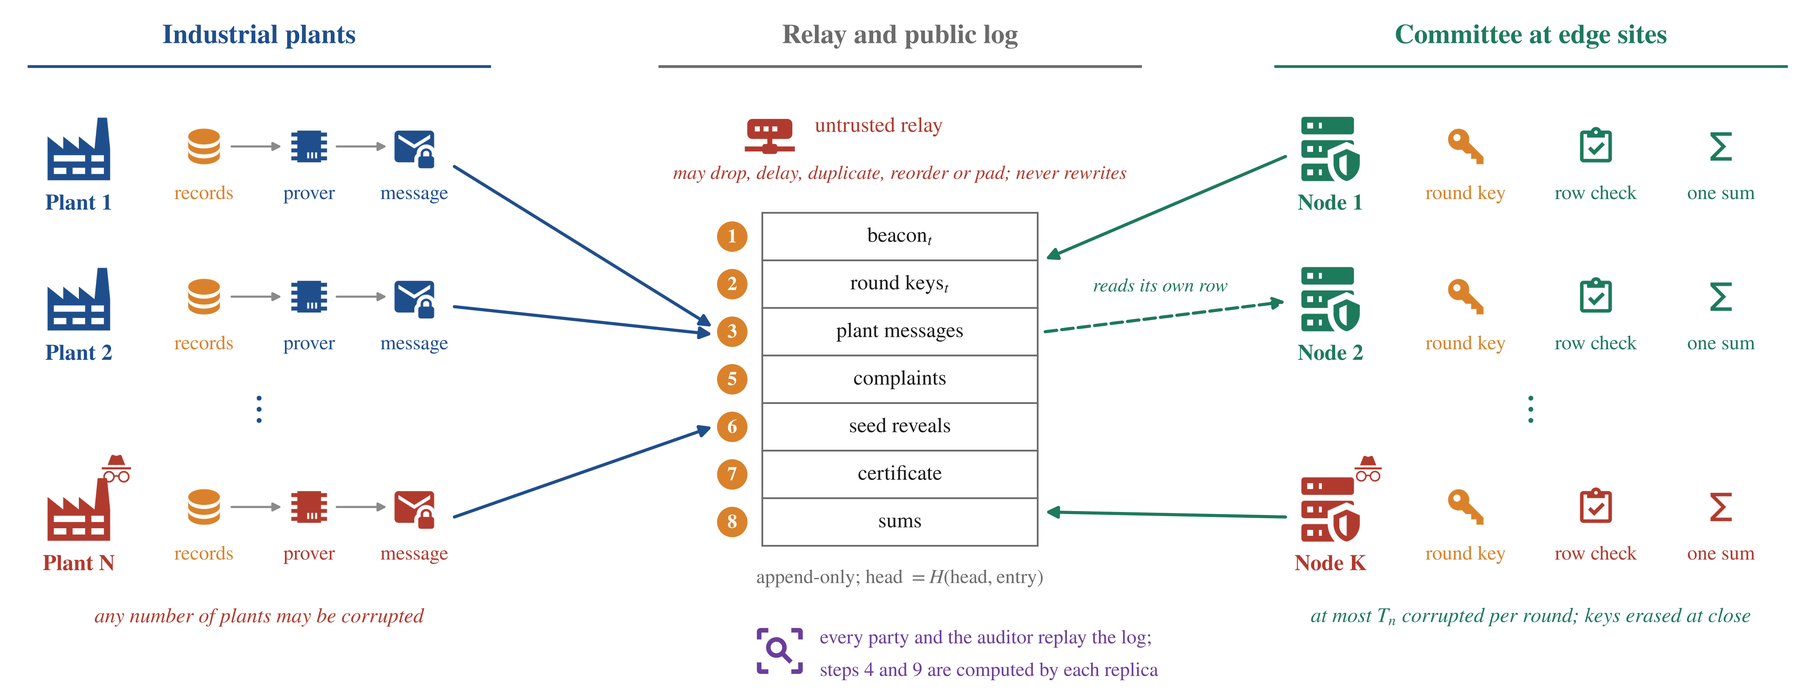
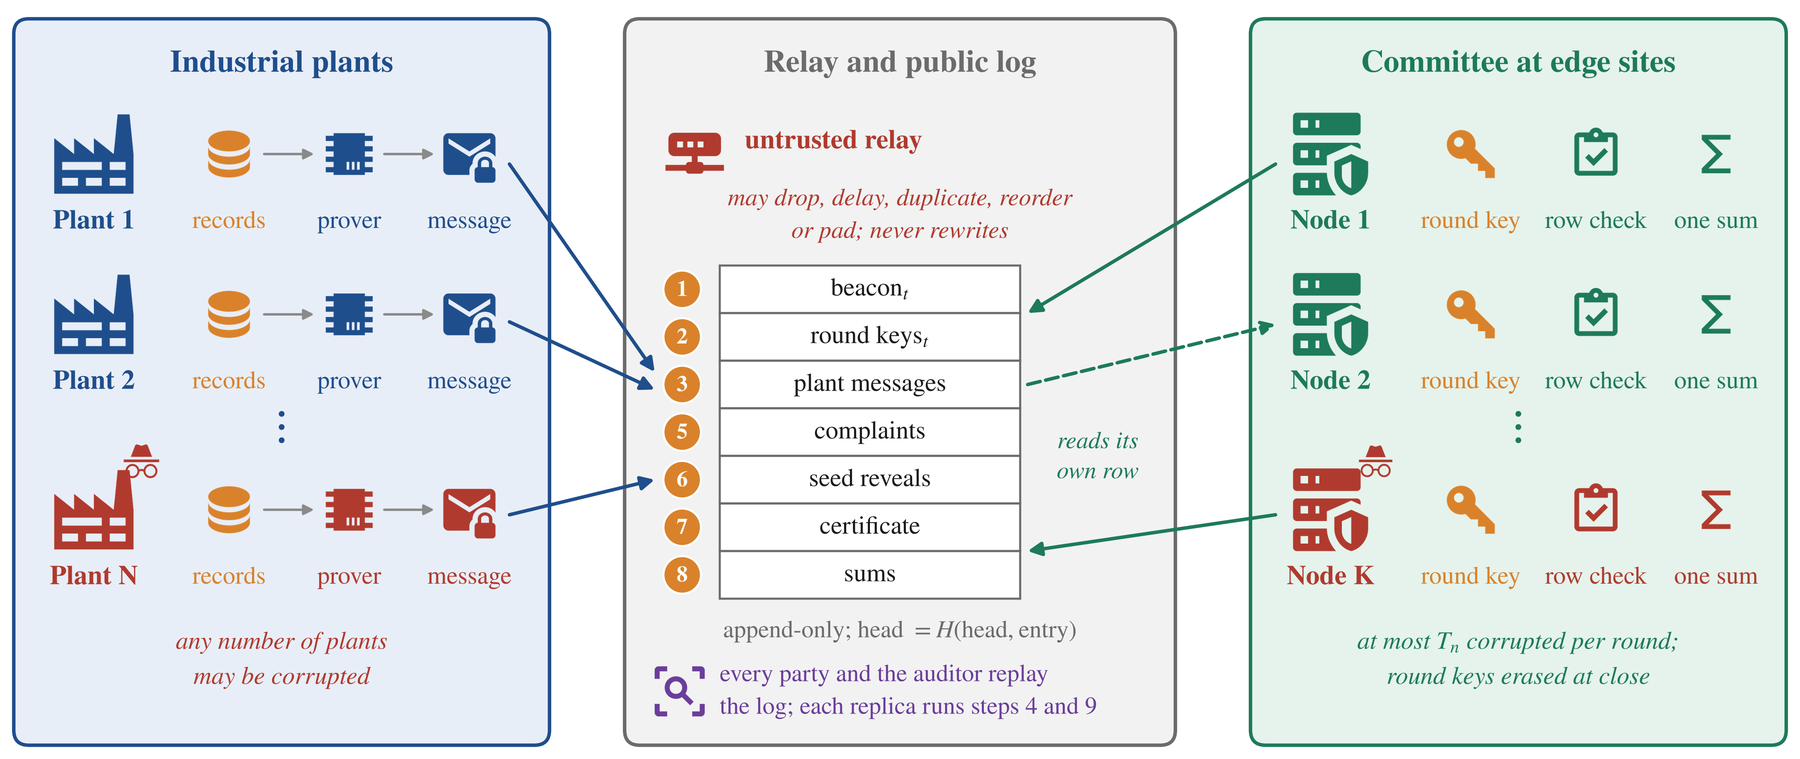
update readme figure

diff --git a/figures/fig2_system.py b/figures/fig2_system.py
@@ -1,88 +1,94 @@
-"""Fig. 2: parties, the public log and the steps of a round, drawn as one open layout."""
+"""Fig. 2: parties, the public log and the steps of a round, in three outlined sections."""
 import sys
 from figkit import Canvas, C
 
-W, H = 7.16, 3.05
+W, H = 7.16, 3.00
 cv = Canvas(W, H)
+BY0, BY1 = 0.04, 2.94                                            # bottom and top of the three section boxes
+HEAD = 2.76                                                      # heading line, inside each box
+SECT = [(0.04, 2.14, 'Industrial plants', C['plant'], C['plant_bg']),
+        (2.48, 2.20, 'Relay and public log', C['log'], C['log_bg']),
+        (4.98, 2.14, 'Committee at edge sites', C['node'], C['node_bg'])]
+for x0, w, title, col, bg in SECT:
+    cv.box(x0, BY0, w, BY1 - BY0, fc=bg, ec=col, lw=1.0, r=0.06, z=1)
+    cv.text(x0 + w / 2, HEAD, title, size=9.0, weight='bold', color=col)
 
-# ------------------------------------------------------------------ column headings
-cv.text(1.02, 2.92, 'Industrial plants', size=7.8, weight='bold', color=C['plant'])
-cv.text(3.58, 2.92, 'Relay and public log', size=7.8, weight='bold', color=C['log'])
-cv.text(6.10, 2.92, 'Committee at edge sites', size=7.8, weight='bold', color=C['node'])
-for x0, x1, col in ((0.10, 1.94, C['plant']), (2.62, 4.54, C['log']), (5.08, 7.12, C['node'])):
-    cv.ax.plot([x0, x1], [2.80, 2.80], color=col, lw=0.8, zorder=1)
+ROWS = (2.34, 1.70, 0.92)                                        # first, second and last party in a section
+DOTS = 1.31
+LAB = 0.21                                                       # label offset below an icon row
 
 
 # ------------------------------------------------------------------ plants
 def plant(y, name, bad=False):
     col = C['bad'] if bad else C['plant']
-    cv.icon('factory', 0.30, y + 0.05, 0.30, col)
-    cv.text(0.30, y - 0.17, name, size=6.4, color=col, weight='bold')
+    cv.icon('factory', 0.36, y + 0.06, 0.38, col)
+    cv.text(0.36, y - LAB, name, size=7.8, color=col, weight='bold')
     if bad:
-        cv.icon('incognito', 0.45, y + 0.21, 0.14, C['bad'], z=7)
-    for x, ic, lab, c in ((0.80, 'database', 'records', C['secret']), (1.22, 'chip', 'prover', col),
-                          (1.64, 'email-lock', 'message', col)):
-        cv.icon(ic, x, y + 0.06, 0.19, c)
-        cv.text(x, y - 0.13, lab, size=5.8, color=c)
-    cv.arrow(0.91, y + 0.06, 1.11, y + 0.06, color='#8a8a8a', lw=0.6, ms=5)
-    cv.arrow(1.33, y + 0.06, 1.53, y + 0.06, color='#8a8a8a', lw=0.6, ms=5)
+        cv.icon('incognito', 0.55, y + 0.25, 0.17, C['bad'], z=7)
+    for x, ic, lab, c in ((0.90, 'database', 'records', C['secret']), (1.38, 'chip', 'prover', col),
+                          (1.86, 'email-lock', 'message', col)):
+        cv.icon(ic, x, y + 0.06, 0.25, c)
+        cv.text(x, y - LAB, lab, size=7.2, color=c)
+    cv.arrow(1.04, y + 0.06, 1.24, y + 0.06, color='#8a8a8a', lw=0.7, ms=6)
+    cv.arrow(1.52, y + 0.06, 1.72, y + 0.06, color='#8a8a8a', lw=0.7, ms=6)
 
 
-plant(2.42, 'Plant 1')
-plant(1.82, 'Plant 2')
-cv.text(1.02, 1.43, '⋮', size=11, color=C['plant'])
-plant(0.98, 'Plant N', bad=True)
-cv.text(1.02, 0.60, 'any number of plants may be corrupted', size=6.0, color=C['bad'], style='italic')
+plant(ROWS[0], 'Plant 1')
+plant(ROWS[1], 'Plant 2')
+cv.text(1.11, DOTS, '⋮', size=13, color=C['plant'])
+plant(ROWS[2], 'Plant N', bad=True)
+cv.text(1.11, 0.45, 'any number of plants', size=7.2, color=C['bad'], style='italic')
+cv.text(1.11, 0.31, 'may be corrupted', size=7.2, color=C['bad'], style='italic')
 
 # ------------------------------------------------------------------ relay and the log
-cv.icon('router-network', 3.06, 2.56, 0.24, C['relay'])
-cv.text(3.24, 2.56, 'untrusted relay', size=6.2, ha='left', color=C['relay'])
-cv.text(3.58, 2.37, 'may drop, delay, duplicate, reorder or pad; never rewrites', size=5.6, color=C['relay'],
-        style='italic')
+cv.icon('router-network', 2.76, 2.45, 0.28, C['relay'])
+cv.text(2.96, 2.45, 'untrusted relay', size=7.8, ha='left', color=C['relay'], weight='bold')
+cv.text(3.58, 2.22, 'may drop, delay, duplicate, reorder', size=7.0, color=C['relay'], style='italic')
+cv.text(3.58, 2.09, 'or pad; never rewrites', size=7.0, color=C['relay'], style='italic')
 entries = [('1', 'beacon$_t$'), ('2', 'round keys$_t$'), ('3', 'plant messages'), ('5', 'complaints'),
            ('6', 'seed reveals'), ('7', 'certificate'), ('8', 'sums')]
-EX, EW, EH = 3.03, 1.10, 0.19
-y0 = 2.12
-for k, (b, lab) in enumerate(entries):
-    y = y0 - k * EH
-    cv.box(EX, y - EH / 2, EW, EH, fc='white', ec=C['log'], lw=0.5, r=0.0, z=4)
-    cv.text(EX + EW / 2, y, lab, size=6.1, color=C['ink'], z=6)
-    cv.badge(EX - 0.12, y, b, r=0.065, size=5.6)
-ybot = y0 - (len(entries) - 1) * EH - EH / 2
-cv.text(EX + EW / 2, ybot - 0.13, 'append-only; head $=H(\\mathrm{head},\\mathrm{entry})$', size=5.7, color=C['log'])
-cv.icon('magnify-scan', 3.10, ybot - 0.42, 0.22, C['aud'])
-cv.text(3.26, ybot - 0.37, 'every party and the auditor replay the log;', size=5.7, ha='left', color=C['aud'])
-cv.text(3.26, ybot - 0.50, 'steps 4 and 9 are computed by each replica', size=5.7, ha='left', color=C['aud'])
+EX, EW, EH = 2.86, 1.20, 0.19
+ER = EX + EW
+y0 = 1.86
+ey = [y0 - k * EH for k in range(len(entries))]
+for y, (b, lab) in zip(ey, entries):
+    cv.box(EX, y - EH / 2, EW, EH, fc='white', ec=C['log'], lw=0.6, r=0.0, z=4)
+    cv.text(EX + EW / 2, y, lab, size=7.3, color=C['ink'], z=6)
+    cv.badge(EX - 0.15, y, b, r=0.075, size=6.4)
+ybot = ey[-1] - EH / 2
+cv.text(3.58, ybot - 0.13, 'append-only; head $=H(\\mathrm{head},\\mathrm{entry})$', size=7.0, color=C['log'])
+cv.icon('magnify-scan', 2.70, 0.255, 0.24, C['aud'])
+cv.text(2.86, 0.32, 'every party and the auditor replay', size=7.0, ha='left', color=C['aud'])
+cv.text(2.86, 0.19, 'the log; each replica runs steps 4 and 9', size=7.0, ha='left', color=C['aud'])
 
 
 # ------------------------------------------------------------------ committee
 def node(y, name, bad=False):
     col = C['bad'] if bad else C['node']
-    cv.icon('server-security', 5.30, y + 0.05, 0.28, col)
-    cv.text(5.30, y - 0.17, name, size=6.4, color=col, weight='bold')
+    cv.icon('server-security', 5.30, y + 0.06, 0.36, col)
+    cv.text(5.30, y - LAB, name, size=7.8, color=col, weight='bold')
     if bad:
-        cv.icon('incognito', 5.45, y + 0.21, 0.13, C['bad'], z=7)
-    for x, ic, lab, c in ((5.84, 'key-variant', 'round key', C['secret']), (6.36, 'clipboard-check-outline', 'row check', col),
-                          (6.86, 'sigma', 'one sum', col)):
-        cv.icon(ic, x, y + 0.06, 0.17, c)
-        cv.text(x, y - 0.13, lab, size=5.8, color=c)
+        cv.icon('incognito', 5.48, y + 0.25, 0.16, C['bad'], z=7)
+    for x, ic, lab, c in ((5.86, 'key-variant', 'round key', C['secret']), (6.36, 'clipboard-check-outline', 'row check', col),
+                          (6.84, 'sigma', 'one sum', col)):
+        cv.icon(ic, x, y + 0.06, 0.23, c)
+        cv.text(x, y - LAB, lab, size=7.2, color=c)
 
 
-node(2.42, 'Node 1')
-node(1.82, 'Node 2')
-cv.text(6.10, 1.43, '⋮', size=11, color=C['node'])
-node(0.98, 'Node K', bad=True)
-cv.text(6.10, 0.60, 'at most $T_n$ corrupted per round; keys erased at close', size=6.0, color=C['node'],
-        style='italic')
+node(ROWS[0], 'Node 1')
+node(ROWS[1], 'Node 2')
+cv.text(6.05, DOTS, '⋮', size=13, color=C['node'])
+node(ROWS[2], 'Node K', bad=True)
+cv.text(6.05, 0.45, 'at most $T_n$ corrupted per round;', size=7.2, color=C['node'], style='italic')
+cv.text(6.05, 0.31, 'round keys erased at close', size=7.2, color=C['node'], style='italic')
 
-# ------------------------------------------------------------------ flows
-ER = EX + EW
-cv.arrow(1.80, 2.40, EX - 0.20, 1.76, color=C['plant'], lw=0.9)                       # messages (3)
-cv.arrow(1.80, 1.84, EX - 0.20, 1.73, color=C['plant'], lw=0.9)
-cv.arrow(1.80, 1.00, EX - 0.20, 1.36, color=C['plant'], lw=0.9)                       # seed reveal (6)
-cv.arrow(5.12, 2.44, ER + 0.03, 2.03, color=C['node'], lw=0.9)                        # beacon, keys (1, 2)
-cv.arrow(ER + 0.03, 1.74, 5.12, 1.86, color=C['node'], lw=0.9, ls='--')               # reads own row
-cv.text(4.62, 1.92, 'reads its own row', size=5.5, color=C['node'], style='italic')
-cv.arrow(5.12, 1.00, ER + 0.03, 1.02, color=C['node'], lw=0.9)                        # certificate, sums (7, 8)
-cv.ax.set_ylim(0.30, H); cv.fig.set_size_inches(W, H - 0.30)
+# ------------------------------------------------------------------ flows between the sections
+cv.arrow(2.02, ROWS[0] + 0.02, EX - 0.26, ey[2] + 0.05, color=C['plant'], lw=1.0, ms=8)      # messages (3)
+cv.arrow(2.02, ROWS[1] + 0.03, EX - 0.26, ey[2] - 0.02, color=C['plant'], lw=1.0, ms=8)
+cv.arrow(2.02, ROWS[2] + 0.04, EX - 0.26, ey[4], color=C['plant'], lw=1.0, ms=8)           # seed reveal (6)
+cv.arrow(5.08, ROWS[0] + 0.02, ER + 0.03, (ey[0] + ey[1]) / 2, color=C['node'], lw=1.0, ms=8)  # beacon, keys (1, 2)
+cv.arrow(ER + 0.03, ey[2], 5.08, ROWS[1] + 0.02, color=C['node'], lw=1.0, ms=8, ls='--')     # reads own row
+cv.text(4.37, ey[3] - 0.04, 'reads its', size=6.9, color=C['node'], style='italic')
+cv.text(4.37, ey[3] - 0.16, 'own row', size=6.9, color=C['node'], style='italic')
+cv.arrow(5.08, ROWS[2] + 0.04, ER + 0.03, (ey[5] + ey[6]) / 2, color=C['node'], lw=1.0, ms=8)  # certificate, sums (7, 8)
 cv.save(sys.argv[1] if len(sys.argv) > 1 else 'fig2_system.png')

diff --git a/figures/results_figures.py b/figures/results_figures.py
@@ -6,6 +6,7 @@ import numpy as np
 import matplotlib
 matplotlib.use('Agg')
 import matplotlib.pyplot as plt
+import matplotlib.ticker
 
 R = sys.argv[1] if len(sys.argv) > 1 else 'results'
 OUT = sys.argv[2] if len(sys.argv) > 2 else 'figures/out'
@@ -33,10 +34,29 @@ def save(fig, name):
     plt.close(fig)
 
 
-# ------------------------------------------------------------------ Fig. 4: detection against privacy
+def panel(w, h, left, bottom, right=0.06, top=0.06):
+    """One subfigure with a fixed plot area, so that panels placed side by side line up."""
+    fig = plt.figure(figsize=(w, h))
+    ax = fig.add_axes([left / w, bottom / h, 1 - (left + right) / w, 1 - (bottom + top) / h])
+    return fig, ax
+
+
+def save_panel(fig, name):
+    fig.savefig(os.path.join(OUT, name + '.png'), facecolor='white')
+    plt.close(fig)
+
+
+def save_legend(handles, labels, ncol, name, **kw):
+    """The legend shared by the subfigures of one figure, drawn as its own image."""
+    fig = plt.figure(figsize=(7.16, 0.4))
+    fig.legend(handles, labels, loc='center', ncol=ncol, **kw)
+    save(fig, name)
+
+
+# ------------------------------------------------------------------ Fig. 5: detection against privacy, one image per dataset
 e1, e2 = rows('E1_detection'), rows('E2_privacy')
-fig, axs = plt.subplots(1, 3, figsize=(7.16, 2.25), sharey=False)
-for ax, (ds, title), let in zip(axs, DS, 'abc'):
+for (ds, title), name in zip(DS, ('fig5a_edge', 'fig5b_wustl', 'fig5c_xiiotid')):
+    fig, ax = panel(2.32, 2.00, left=0.44, bottom=0.42)
     for sy, sp, u, col, mk, ls, lab in (('ours', 'iid', 2, C_OURS, 'o', '-', 'FedProof, 10 plants'),
                                         ('trusted_dp', 'iid', 2, C_TRUST, 's', '-', 'Trusted aggregator, 10 plants'),
                                         ('ours', 'iid50', 8, C_OURS, '^', '--', 'FedProof, 50 plants'),
@@ -52,21 +72,19 @@ for ax, (ds, title), let in zip(axs, DS, 'abc'):
     fc = np.mean([r['macro_f1'] for r in e1 if r['dataset'] == ds and r['split'] == 'iid' and r['system'] == 'float_central'])
     ax.axhline(nn, color=C_OURS, lw=0.8, ls=(0, (1, 1.5)), label='FedProof, no noise')
     ax.axhline(fc, color='#555555', lw=0.8, ls=(0, (4, 2)), label='Centralized model')
-    ax.set_xscale('log'); ax.set_title('(%s) %s' % (let, title)); ax.set_xlabel(r'Privacy budget $\varepsilon$ ($\delta = 10^{-5}$)')
-    ax.set_ylim(0.2, 1.0)
-axs[0].set_ylabel('Macro-F1')
-h, l = axs[0].get_legend_handles_labels()
-fig.legend(h, l, loc='lower center', ncol=3, bbox_to_anchor=(0.5, -0.13))
-fig.tight_layout(w_pad=1.2)
-save(fig, 'fig5_privacy')
+    ax.set_xscale('log'); ax.set_xlabel(r'Privacy budget $\varepsilon$ ($\delta = 10^{-5}$)')
+    ax.set_ylim(0.2, 1.0); ax.set_ylabel('Macro-F1')
+    h, l = ax.get_legend_handles_labels()
+    save_panel(fig, name)
+save_legend(h, l, 3, 'fig5_legend')
 
-# ------------------------------------------------------------------ Fig. 5: poisoning (mean over datasets and seeds)
+# ------------------------------------------------------------------ Fig. 6: poisoning (mean over datasets and seeds), one image per attack
 e4 = rows('E4_poisoning')
-panels = (('label_flip', 'macro_f1', 'Label flipping', 'Macro-F1'), ('garbage', 'macro_f1', 'Garbage data', 'Macro-F1'),
-          ('attack_to_normal', 'attack_success', 'Attacks relabeled normal', 'Attack success'),
-          ('backdoor', 'attack_success', 'Feature-trigger backdoor', 'Attack success'))
-fig, axs = plt.subplots(1, 4, figsize=(7.16, 2.05))
-for ax, (at, met, title, yl), let in zip(axs, panels, 'abcd'):
+panels = (('label_flip', 'macro_f1', 'fig6a_label_flip', 'Macro-F1'), ('garbage', 'macro_f1', 'fig6b_garbage', 'Macro-F1'),
+          ('attack_to_normal', 'attack_success', 'fig6c_attack_to_normal', 'Attack success'),
+          ('backdoor', 'attack_success', 'fig6d_backdoor', 'Attack success'))
+for at, met, name, yl in panels:
+    fig, ax = panel(1.74, 1.68, left=0.40, bottom=0.40)
     for si, (sy, lab, col, mk, ls) in enumerate(SYS):
         off = (si - (len(SYS) - 1) / 2) * 0.9      # small horizontal offset per system, same values
         ys, es = [], []
@@ -75,31 +93,29 @@ for ax, (at, met, title, yl), let in zip(axs, panels, 'abcd'):
             ys.append(np.mean(v)); es.append(np.std(v) / np.sqrt(max(1, len(v))))
         ax.errorbar([10 + off, 20 + off, 30 + off], ys, yerr=es, color=col, marker=mk, ls=ls, capsize=1.5, elinewidth=0.6,
                     label=lab, ms=4.2 if sy == 'ours' else 3.4, lw=1.7 if sy == 'ours' else 0.9, zorder=5 if sy == 'ours' else 2)
-    ax.set_title('(%s) %s' % (let, title)); ax.set_xticks([10, 20, 30]); ax.set_xlabel('Poisoned plants (%)'); ax.set_ylabel(yl)
+    ax.set_xticks([10, 20, 30]); ax.set_xlabel('Poisoned plants (%)'); ax.set_ylabel(yl)
     ax.set_ylim(-0.03, 1.03) if met == 'attack_success' else ax.set_ylim(0.0, 0.65)
-h, l = axs[0].get_legend_handles_labels()
-fig.legend(h, l, loc='lower center', ncol=6, bbox_to_anchor=(0.5, -0.11))
-fig.tight_layout(w_pad=0.8)
-save(fig, 'fig6_poisoning')
+    h, l = ax.get_legend_handles_labels()
+    save_panel(fig, name)
+save_legend(h, l, 6, 'fig6_legend')
 
-# ------------------------------------------------------------------ Fig. 6: proof cost against model size
+# ------------------------------------------------------------------ Fig. 7: proof cost against model size, one image per chunk size
 e5 = rows('E5_proofcost')
-fig, axs = plt.subplots(1, 2, figsize=(3.5, 1.85), sharey=True)
-for ax, b, let in ((axs[0], 16, 'a'), (axs[1], 128, 'b')):
+for b, name in ((16, 'fig7a_b16'), (128, 'fig7b_b128')):
+    fig, ax = panel(1.72, 1.61, left=0.38, bottom=0.40)
     for lvl, col, mk in (('P128', C_OURS, 'o'), ('P256', '#b03a2e', 's')):
         pts = sorted((r['d'], r['prove_s'], r['verify_s']) for r in e5 if r['b'] == b and r['level'] == lvl)
         xs = [p[0] / 1000 for p in pts]
         ax.plot(xs, [p[1] for p in pts], color=col, ls='-', marker=mk, ms=3.5, label='Prove, %s' % lvl)
         ax.plot(xs, [p[2] for p in pts], color=col, ls='--', marker=mk, ms=3.5, mfc='white', label='Verify, %s' % lvl)
     ax.set_yscale('log'); ax.set_yticks([0.5, 1, 2, 5, 10, 20]); ax.set_yticklabels(['0.5', '1', '2', '5', '10', '20'])
-    ax.set_ylim(0.4, 32); ax.set_title('(%s) $b = %d$' % (let, b)); ax.set_xlabel('Parameters (thousands)')
-axs[0].set_ylabel('Time (s)')
-h, l = axs[0].get_legend_handles_labels()
-fig.legend(h, l, loc='lower center', ncol=2, bbox_to_anchor=(0.5, -0.2))
-fig.tight_layout(w_pad=0.6)
-save(fig, 'fig7_proof_cost')
+    ax.set_ylim(0.4, 32); ax.set_xlabel('Parameters (thousands)'); ax.set_ylabel('Time (s)')
+    ax.yaxis.set_minor_formatter(matplotlib.ticker.NullFormatter())
+    h, l = ax.get_legend_handles_labels()
+    save_panel(fig, name)
+save_legend(h, l, 4, 'fig7_legend', columnspacing=1.0, handlelength=1.6)
 
-# ------------------------------------------------------------------ Fig. 7: round time on kernel-shaped links
+# ------------------------------------------------------------------ Fig. 8: round time on kernel-shaped links
 e6 = rows('E6_network')
 prof = (('industrial-ethernet', 'Industrial\nEthernet'), ('private-5g', 'Private\n5G'), ('constrained-wan', 'Constrained\nwide-area'))
 get = lambda p, drop, loss, f: np.mean(next(r for r in e6 if r['key'] == 'edge-iiotset|live|%s|drop=%s|loss=%g|kernel' % (p, drop, loss))[f])
@@ -117,7 +133,7 @@ ax.set_ylim(0, 205)
 fig.tight_layout()
 save(fig, 'fig8_links')
 
-# ------------------------------------------------------------------ Fig. 8: scaling
+# ------------------------------------------------------------------ Fig. 9: scaling
 e7 = rows('E7_scaling')
 em = sorted({(r['plants'], np.mean(r['emulated_round_s'])) for r in e7})
 rp = sorted({(r['plants'], np.mean(r['replay_round_s'])) for r in e7 if r.get('replay_round_s')})

diff --git a/figures/fig1_trust.py b/figures/fig1_trust.py
@@ -1,19 +1,21 @@
-"""Fig. 1: what each approach trusts, and what a corrupted plant can do in each."""
-import sys
+"""Fig. 1: what each approach trusts, and what a corrupted plant can do in each.
+
+Writes one image per subfigure: fig1a_fedavg.png, fig1b_secagg.png, fig1c_fedproof.png.
+The optional argument is the output directory (or a file path inside it).
+"""
+import os, sys
 from figkit import Canvas, C
 
-W, H = 7.16, 2.42
-cv = Canvas(W, H)
-PW, GAP = 2.32, 0.10
+PW, PH, Y0 = 2.32, 2.12, 0.06                                    # panel width, height, bottom of the drawing
 rows = ('Individual updates hidden', 'Training step proved', 'Noise verified', 'Post-quantum')
 panels = [
-    ('(a) Federated averaging', (False, False, False, False)),
-    ('(b) Secure aggregation with norm checks', (True, False, False, False)),
-    ('(c) Proof-carrying training (this work)', (True, True, True, True)),
+    ('fig1a_fedavg.png', (False, False, False, False)),
+    ('fig1b_secagg.png', (True, False, False, False)),
+    ('fig1c_fedproof.png', (True, True, True, True)),
 ]
 
 
-def plants(x0, y_top, bad_y):
+def plants(cv, x0, y_top, bad_y):
     ys = [y_top, y_top - 0.36, bad_y]
     for k, y in enumerate(ys):
         bad = y == bad_y
@@ -23,13 +25,11 @@ def plants(x0, y_top, bad_y):
     return ys
 
 
-for p, (title, marks) in enumerate(panels):
-    x = p * (PW + GAP)
-    if p:                                                        # thin rule between panels, no cards
-        cv.ax.plot([x - GAP / 2, x - GAP / 2], [0.10, H - 0.08], color='#cfcfcf', lw=0.6, zorder=1)
-    cv.text(x + PW / 2, H - 0.15, title, size=7.6, weight='bold')
+def panel(p, marks):
+    cv = Canvas(PW, PH + Y0)
+    x = 0.0
     top, bad = 1.86, 1.08
-    ys = plants(x + 0.25, top, bad)
+    ys = plants(cv, x + 0.25, top, bad)
     if p == 0:
         sx, sy = x + 1.85, 1.50
         cv.icon('server', sx, sy, 0.34, C['public'])
@@ -76,4 +76,13 @@ for p, (title, marks) in enumerate(panels):
         y = 0.56 - k * 0.135
         cv.text(x + 0.14, y, lab, size=6.4, ha='left', color=C['ink'])
         cv.icon('check-circle' if ok else 'close-circle', x + PW - 0.20, y, 0.12, C['good'] if ok else C['bad'])
-cv.save(sys.argv[1] if len(sys.argv) > 1 else 'fig1_trust.png')
+    # same frame for all three panels, so the subfigures line up when placed side by side
+    cv.ax.set_ylim(Y0, PH + Y0); cv.fig.set_size_inches(PW, PH)
+    return cv
+
+
+out = sys.argv[1] if len(sys.argv) > 1 else '.'
+out = os.path.dirname(out) if out.endswith('.png') else out
+for p, (name, marks) in enumerate(panels):
+    cv = panel(p, marks)
+    cv.fig.savefig(os.path.join(out or '.', name), dpi=600, facecolor='white')
